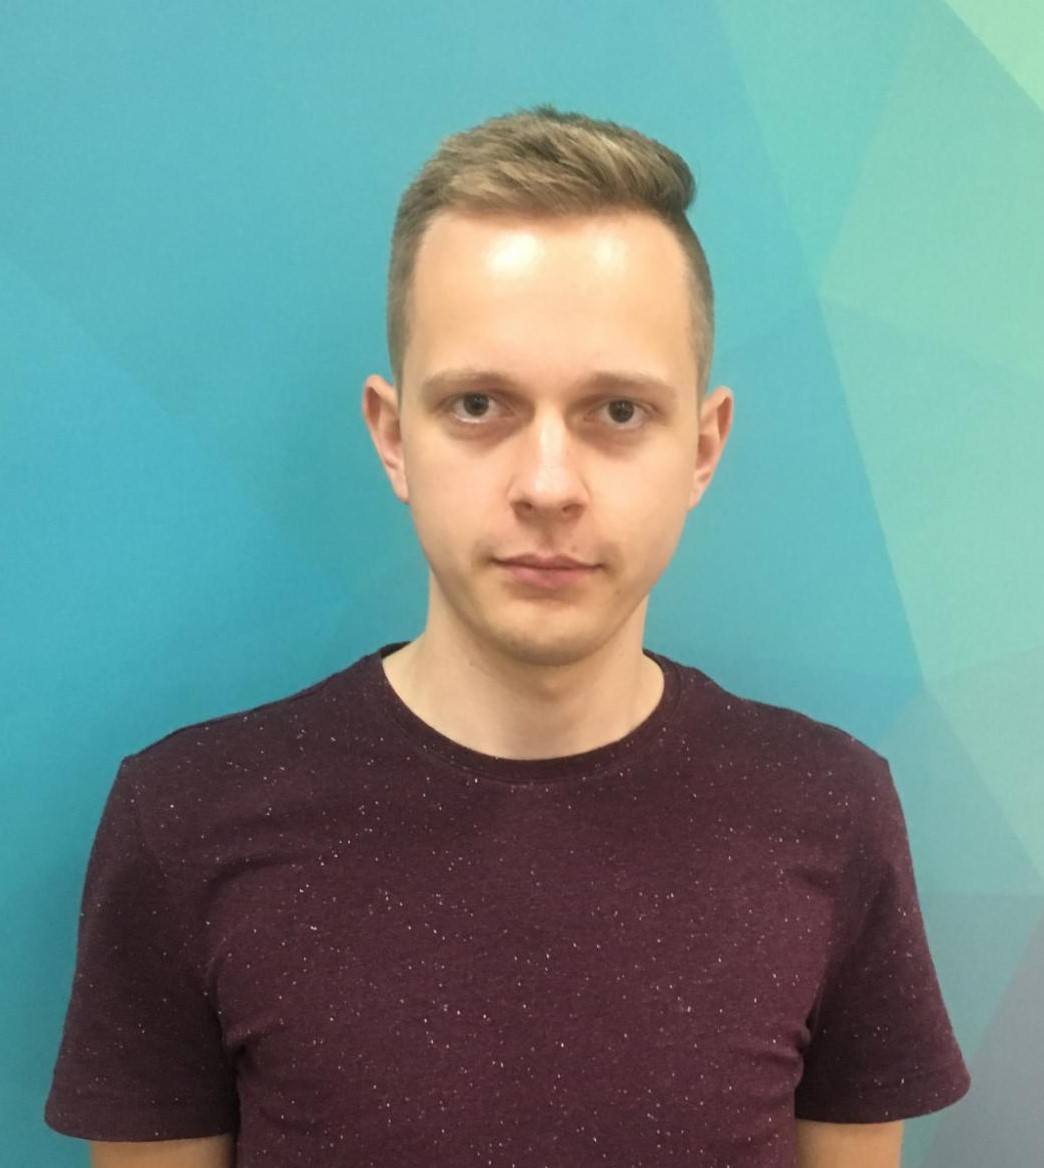
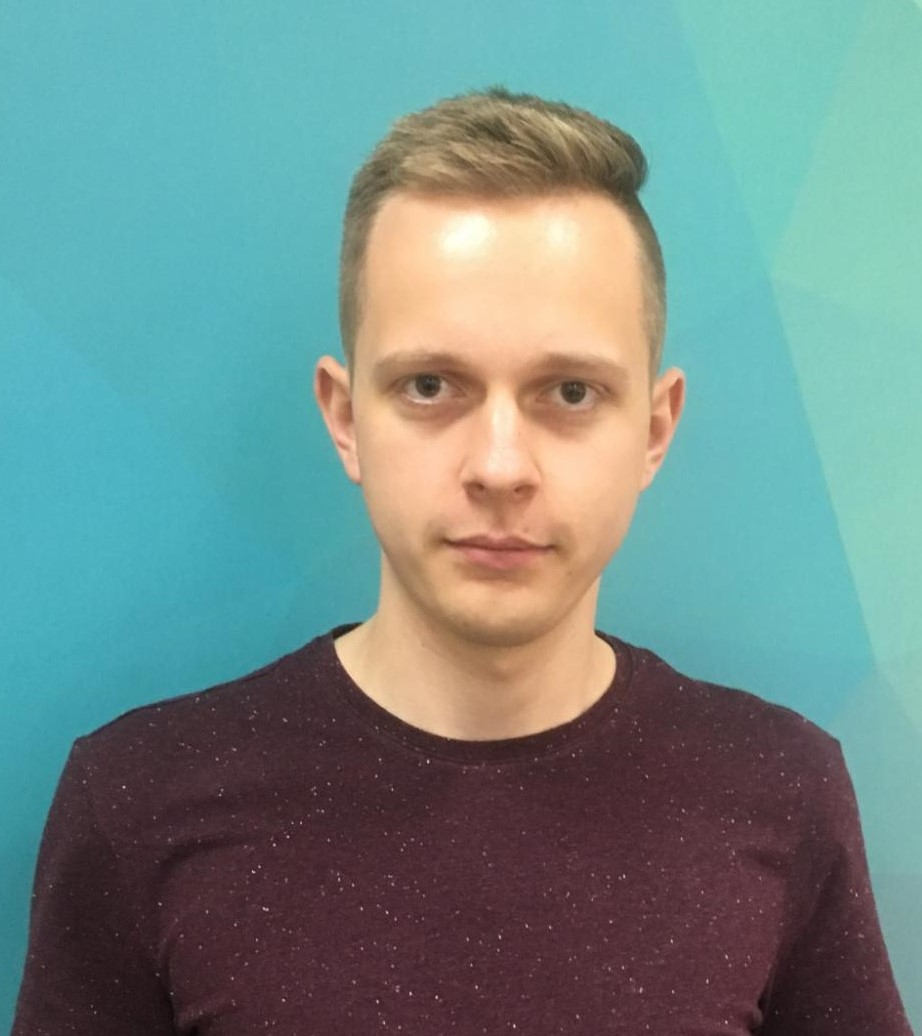
added new photos

diff --git a/index.html b/index.html
@@ -195,52 +195,52 @@
                             <div class="row row-padding">
                                 <div class="col-md-4 animated" data-animation="bounceInRight" data-animation-delay="400">
                                     <img src="images/team/radek.jpg" alt="" class="photo" />
-                                    <div>Radosław Szwedo</div>
-                                    <div>Team Leader</div>
+                                    <div class="photoText">Radosław Szwedo</div>
+                                    <div class="photoText">Team Leader</div>
                                 </div>
                                 <div class="col-md-4 animated" data-animation="bounceInRight" data-animation-delay="400">
-                                    <img src="images/team/radek.jpg" alt="" class="photo" />
-                                    <div class="textCenter">Tomasz Tutka</div>
-                                    <div>Tester</div>
+                                    <img src="images/team/tutka.png" alt="" class="photo" />
+                                    <div class="photoText">Tomasz Tutka</div>
+                                    <div class="photoText">Tester</div>
                                 </div>
                                 <div class="col-md-4 animated" data-animation="bounceInRight" data-animation-delay="400">
                                     <img src="images/team/dawid.jpg" alt="" class="photo" />
-                                    <div>Dawid Derencz</div>
-                                    <div>Back-end developer</div>
+                                    <div class="photoText">Dawid Derencz</div>
+                                    <div class="photoText">Back-end developer</div>
                                 </div>
                             </div>
                             <div class="row row-padding">
                                 <div class="col-md-4 animated" data-animation="bounceInLeft" data-animation-delay="400">
-                                    <img src="images/team/radek.jpg" alt="" class="photo" />
-                                    <div>Kamil Sajdak</div>
-                                    <div>Back-end developer</div>
+                                    <img src="images/team/sajdak.jpg" alt="" class="photo" />
+                                    <div class="photoText"> Kamil Sajdak</div>
+                                    <div class="photoText">Back-end developer</div>
                                 </div>
                                 <div class="col-md-4 animated" data-animation="bounceInLeft" data-animation-delay="400">
                                     <img src="images/team/lesiczka.jpg" alt="" class="photo" />
-                                    <div>Krzysztof Lesiczka</div>
-                                    <div>Back-end developer</div>
+                                    <div class="photoText">Krzysztof Lesiczka</div>
+                                    <div class="photoText">Back-end developer</div>
                                 </div>
                                 <div class="col-md-4 animated" data-animation="bounceInLeft" data-animation-delay="400">
-                                    <img src="images/team/radek.jpg" alt="" class="photo" />
-                                    <div>Robert Tobiasz</div>
-                                    <div>Back-end developer</div>
+                                    <img src="images/team/robert.png" alt="" class="photo" />
+                                    <div class="photoText">Robert Tobiasz</div>
+                                    <div class="photoText">Back-end developer</div>
                                 </div>
                             </div>
                             <div class="row row-padding">
                                 <div class="col-md-4 animated" data-animation="bounceInUp" data-animation-delay="400">
                                     <img src="images/team/serafin.jpg" alt="" class="photo" />
-                                    <div>Krzysztof Serafin</div>
-                                    <div>Front-end developer</div>
+                                    <div class="photoText">Krzysztof Serafin</div>
+                                    <div class="photoText">Front-end developer</div>
                                 </div>
                                 <div class="col-md-4 animated" data-animation="bounceInUp" data-animation-delay="400">
                                     <img src="images/team/marcin.jpg" alt="" class="photo" />
-                                    <div>Marcin Konieczny</div>
-                                    <div>Front-end developer</div>
+                                    <div class="photoText">Marcin Konieczny</div>
+                                    <div class="photoText">Front-end developer</div>
                                 </div>
                                 <div class="col-md-4 animated" data-animation="bounceInUp" data-animation-delay="400">
                                     <img src="images/team/was.jpg" alt="" class="photo" />
-                                    <div>Wasyl Gutnyk</div>
-                                    <div>Front-end developer</div>
+                                    <div class="photoText">Wasyl Gutnyk</div>
+                                    <div class="photoText">Front-end developer</div>
                                 </div>
                             </div>
                         </div>
@@ -360,6 +360,11 @@
                                         <div class="clip img-circle">
                                             <div class="clip-internal">
                                                 <img src="images/front/sass.png" class="compass" /> <span class="title_sub_tech">SaSS</span>
+                                            </div>
+                                        </div>
+                                        <div class="clip img-circle">
+                                            <div class="clip-internal">
+                                                <img src="images/front/ecmascript.png" class="compass" /> <span class="title_sub_tech">Ecmascript</span>
                                             </div>
                                         </div>
                                     </div>

diff --git a/style.css b/style.css
@@ -2203,6 +2203,11 @@ hr {
 	overflow: hidden;
 }
 
+.photo {
+	margin: 0 auto;
+	display: block;
+}
+
 .photo-image {
 	width: 175px;
 	height: 175px;
@@ -2739,10 +2744,6 @@ body.mobile .tab-content>.active {
 	background-color: rgba(0,0,0,0.3);
 }
 
-/* .textCenter {
+.photoText {
 	text-align: center;
-} */
-
-.audio {
-	
 }
